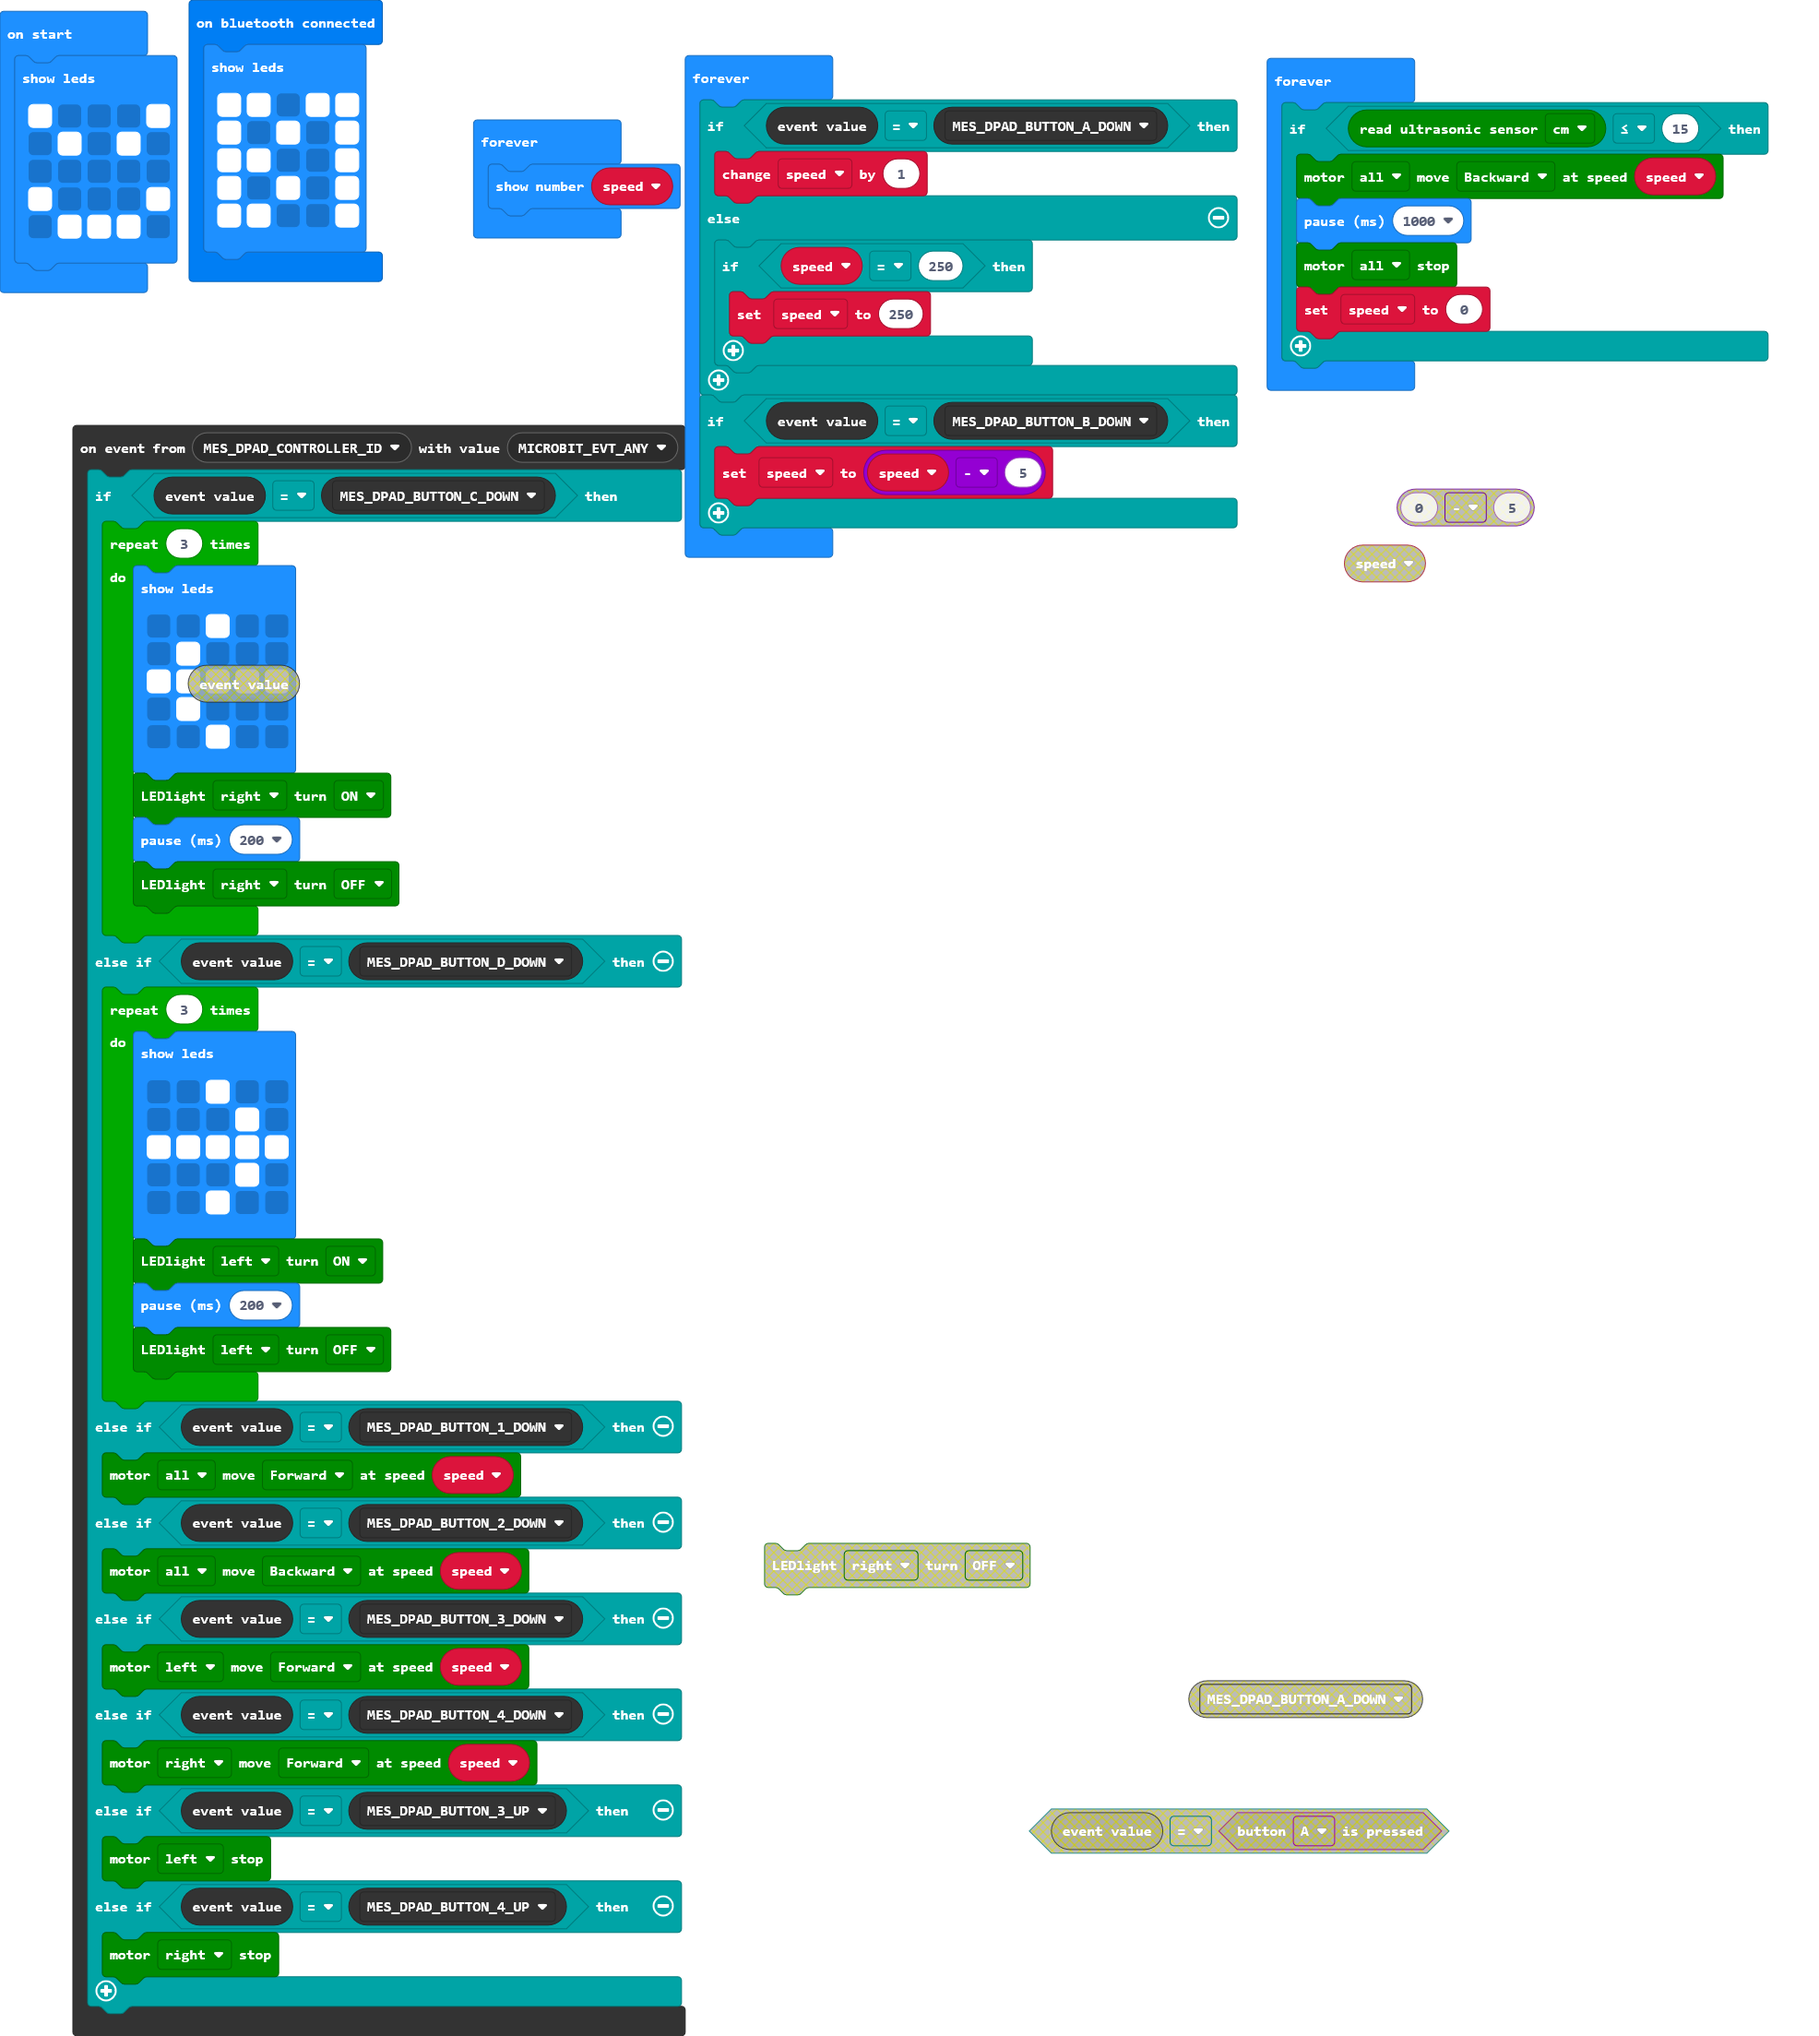
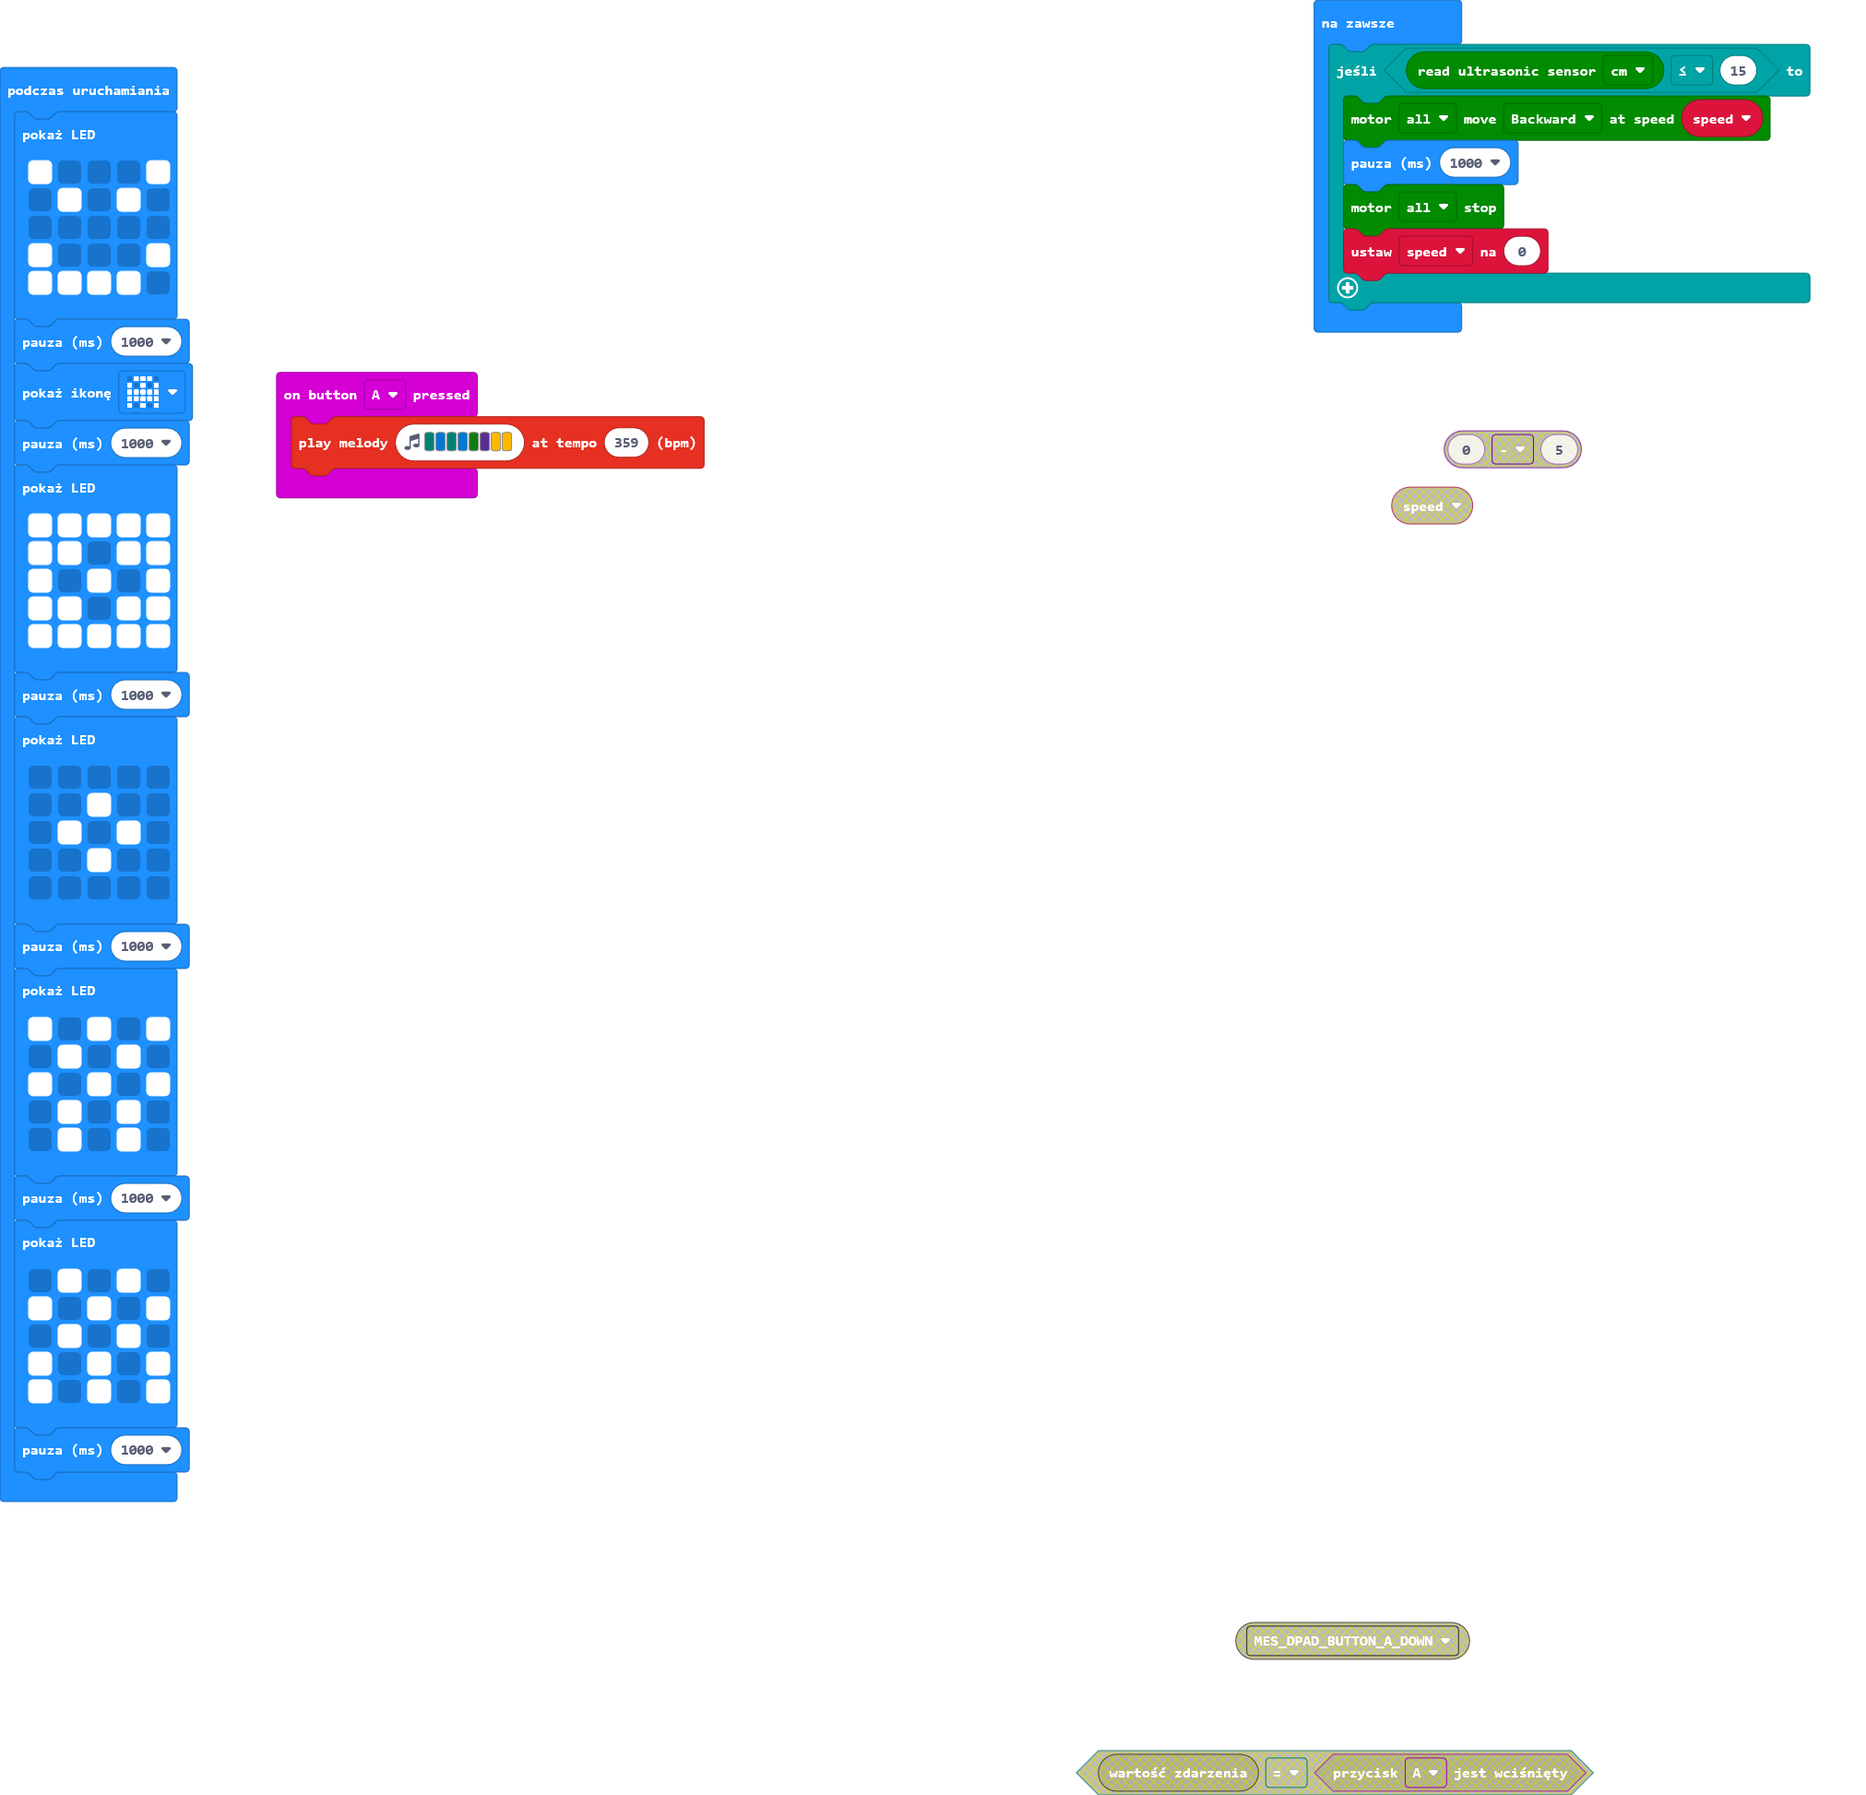
Aktualizacja pxt.json, main.blocks, main.ts

diff --git a/main.ts b/main.ts
@@ -1,52 +1,5 @@
-bluetooth.onBluetoothConnected(function () {
-    basic.showLeds(`
-        # # . # #
-        # . # . #
-        # # . . #
-        # . # . #
-        # # . . #
-        `)
-})
-control.onEvent(EventBusSource.MES_DPAD_CONTROLLER_ID, EventBusValue.MICROBIT_EVT_ANY, function () {
-    if (control.eventValue() == EventBusValue.MES_DPAD_BUTTON_C_DOWN) {
-        for (let index = 0; index < 3; index++) {
-            basic.showLeds(`
-                . . # . .
-                . # . . .
-                # # # # #
-                . # . . .
-                . . # . .
-                `)
-            maqueen.writeLED(maqueen.LED.LEDRight, maqueen.LEDswitch.turnOn)
-            basic.pause(200)
-            maqueen.writeLED(maqueen.LED.LEDRight, maqueen.LEDswitch.turnOff)
-        }
-    } else if (control.eventValue() == EventBusValue.MES_DPAD_BUTTON_D_DOWN) {
-        for (let index = 0; index < 3; index++) {
-            basic.showLeds(`
-                . . # . .
-                . . . # .
-                # # # # #
-                . . . # .
-                . . # . .
-                `)
-            maqueen.writeLED(maqueen.LED.LEDLeft, maqueen.LEDswitch.turnOn)
-            basic.pause(200)
-            maqueen.writeLED(maqueen.LED.LEDLeft, maqueen.LEDswitch.turnOff)
-        }
-    } else if (control.eventValue() == EventBusValue.MES_DPAD_BUTTON_1_DOWN) {
-        maqueen.motorRun(maqueen.Motors.All, maqueen.Dir.CW, speed)
-    } else if (control.eventValue() == EventBusValue.MES_DPAD_BUTTON_2_DOWN) {
-        maqueen.motorRun(maqueen.Motors.All, maqueen.Dir.CCW, speed)
-    } else if (control.eventValue() == EventBusValue.MES_DPAD_BUTTON_3_DOWN) {
-        maqueen.motorRun(maqueen.Motors.M1, maqueen.Dir.CW, speed)
-    } else if (control.eventValue() == EventBusValue.MES_DPAD_BUTTON_4_DOWN) {
-        maqueen.motorRun(maqueen.Motors.M2, maqueen.Dir.CW, speed)
-    } else if (control.eventValue() == EventBusValue.MES_DPAD_BUTTON_3_UP) {
-        maqueen.motorStop(maqueen.Motors.M1)
-    } else if (control.eventValue() == EventBusValue.MES_DPAD_BUTTON_4_UP) {
-        maqueen.motorStop(maqueen.Motors.M2)
-    }
+input.onButtonPressed(Button.A, function () {
+    music.playMelody("F E F E G D A A ", 359)
 })
 let speed = 0
 basic.showLeds(`
@@ -54,20 +7,43 @@ basic.showLeds(`
     . # . # .
     . . . . .
     # . . . #
-    . # # # .
+    # # # # .
     `)
-basic.forever(function () {
-    if (control.eventValue() == EventBusValue.MES_DPAD_BUTTON_A_DOWN) {
-        speed += 1
-    } else {
-        if (speed == 250) {
-            speed = 250
-        }
-    }
-    if (control.eventValue() == EventBusValue.MES_DPAD_BUTTON_B_DOWN) {
-        speed = speed - 5
-    }
-})
+basic.pause(1000)
+basic.showIcon(IconNames.Ghost)
+basic.pause(1000)
+basic.showLeds(`
+    # # # # #
+    # # . # #
+    # . # . #
+    # # . # #
+    # # # # #
+    `)
+basic.pause(1000)
+basic.showLeds(`
+    . . . . .
+    . . # . .
+    . # . # .
+    . . # . .
+    . . . . .
+    `)
+basic.pause(1000)
+basic.showLeds(`
+    # . # . #
+    . # . # .
+    # . # . #
+    . # . # .
+    . # . # .
+    `)
+basic.pause(1000)
+basic.showLeds(`
+    . # . # .
+    # . # . #
+    . # . # .
+    # . # . #
+    # . # . #
+    `)
+basic.pause(1000)
 basic.forever(function () {
     if (maqueen.Ultrasonic(PingUnit.Centimeters) <= 15) {
         maqueen.motorRun(maqueen.Motors.All, maqueen.Dir.CCW, speed)
@@ -75,7 +51,4 @@ basic.forever(function () {
         maqueen.motorStop(maqueen.Motors.All)
         speed = 0
     }
-})
-basic.forever(function () {
-    basic.showNumber(speed)
 })
